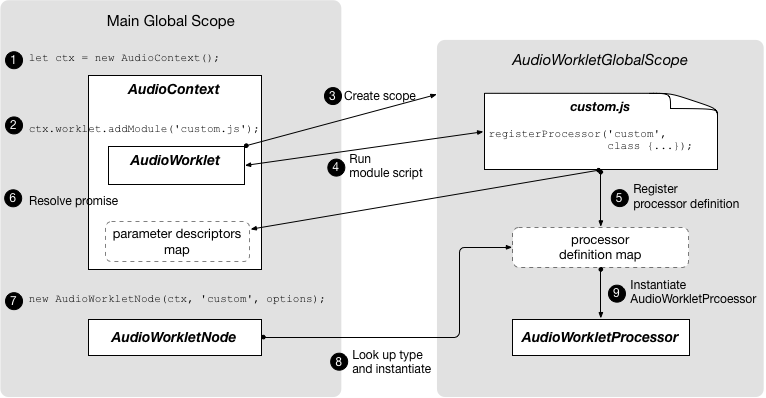
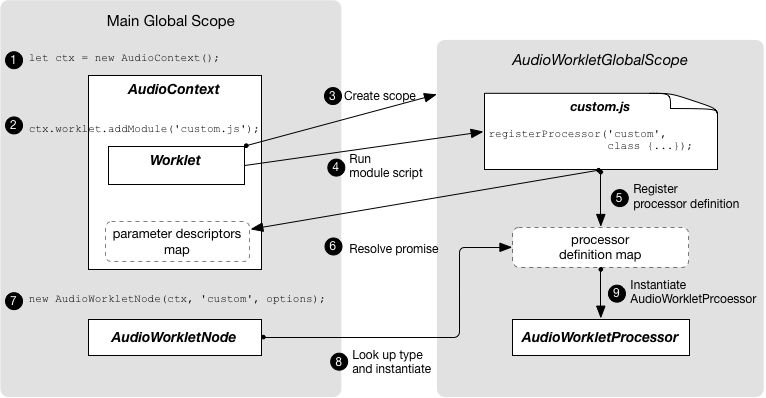
Replace AudioWorklet interface with Worklet.

diff --git a/index.html b/index.html
@@ -650,10 +650,6 @@ function setupRoutingGraph() {
           <li>An <a><code>AudioListener</code></a> interface, which works with
           a <a>PannerNode</a> for spatialization.
           </li>
-          <li>An <a><code>AudioWorklet</code></a> interface representing a
-          factory for creating custom nodes that can process audio directly
-          using scripts.
-          </li>
           <li>An <a><code>AudioWorkletGlobalScope</code></a> interface, the
           context in which AudioWorkletProcessor processing scripts run.
           </li>
@@ -1033,10 +1029,9 @@ interface BaseAudioContext : EventTarget {
               "idlAttrType"><a><code>Worklet</code></a></span> readonly
             </dt>
             <dd>
-              Allows access to the <code>Worklet</code> object that can import
+              Allows access to the <a href="https://drafts.css-houdini.org/worklets/#worklet">Worklet</a> object that can import
               a script containing <a><code>AudioWorkletProcessor</code></a>
-              class definitions via the algorithms defined by [[!worklets-1]]
-              and <a>AudioWorklet</a>.
+              class definitions via the algorithms defined by [[!worklets-1]].
             </dd>
           </dl>
         </section>
@@ -17951,14 +17946,15 @@ dictionary WaveShaperOptions : AudioNodeOptions {
       </section>
       <section>
         <h2 id="AudioWorklet">
-          The <dfn>AudioWorklet</dfn> Interface
+          The Audio Worklet
         </h2>
         <section>
           <h2 id="AudioWorklet-concepts">
             Concepts
           </h2>
           <p>
-            The <a>AudioWorklet</a> object allows developers to supply scripts
+            The audio <a href="https://drafts.css-houdini.org/worklets/#worklet"><code>Worklet</code></a>
+            object belonging to a <a>BaseAudioContext</a> object allows developers to supply scripts
             (such as JavaScript or WebAssembly code) to process audio on the
             <a>rendering thread</a>, supporting custom <a>AudioNode</a>s. This
             processing mechanism ensures the synchronous execution of the
@@ -17982,10 +17978,9 @@ dictionary WaveShaperOptions : AudioNodeOptions {
             </figcaption>
           </figure>
           <p>
-            Each <a>BaseAudioContext</a> possesses exactly one
-            <a>AudioWorklet</a>. Scripts imported using this
-            <a>AudioWorklet</a> are run in one or more
-            <a>AudioWorkletGlobalScope</a> global scopes, which are created to
+            Each <a>BaseAudioContext</a> possesses a <a href="https://drafts.css-houdini.org/worklets/#worklet">Worklet</a> object. Scripts imported with this object
+            are run in a
+            <a>AudioWorkletGlobalScope</a> global scope, which is created to
             process audio associated with that <a>BaseAudioContext</a>.
           </p>
           <p>
@@ -18094,7 +18089,7 @@ context.worklet.addModule("bypass.js").then(function () {
             scope code running within concurrent threads.
           </div>
           <pre class="idl">
-[Global=(Worklet, AudioWorklet), Exposed=AudioWorklet]
+[Global=(Worklet)]
 interface AudioWorkletGlobalScope : WorkletGlobalScope {
     void registerProcessor (DOMString name, VoidFunction processorCtor);
     readonly attribute double currentTime;
@@ -18723,7 +18718,6 @@ dictionary AudioWorkletNodeOptions : AudioNodeOptions {
             reference</dfn>, initially null.
           </p>
           <pre class="idl">
-[Exposed=AudioWorklet]
 interface AudioWorkletProcessor {
     readonly        attribute MessagePort port;
 };
@@ -19139,18 +19133,18 @@ dictionary AudioParamDescriptor {
         </section>
         <section class="informative">
           <h2 id="AudioWorklet-Sequence">
-            AudioWorklet Sequence of Events
+            Audio Worklet Sequence of Events
           </h2>
           <p>
             The following figure illustrates an idealized sequence of events
-            occurring relative to an <a>AudioWorklet</a>:
+            occurring relative to an audio <a href="https://drafts.css-houdini.org/worklets/#worklet">Worklet</a>:
           </p>
           <figure>
-            <img alt="AudioWorklet sequence" src=
+            <img alt="audio Worklet sequence" src=
             "images/audioworklet-instantiation-sequence.png" width="784"
             height="427">
             <figcaption>
-              <a>AudioWorklet</a> sequence
+              audio <a href="https://drafts.css-houdini.org/worklets/#worklet">Worklet</a> sequence
             </figcaption>
           </figure>
           <p>
@@ -19197,7 +19191,7 @@ dictionary AudioParamDescriptor {
         </section>
         <section class="informative">
           <h2 id="AudioWorklet-Examples">
-            AudioWorklet Examples
+            Audio Worklet Examples
           </h2>
           <section>
             <h3>
@@ -21225,7 +21219,7 @@ function coneGain() {
             persists across browsing sessions?
           </p>
           <p>
-            No. AudioWorklet does not persist across browsing sessions.
+            No. Audio Worklet does not persist across browsing sessions.
             <em>right?</em>
           </p>
         </li>
